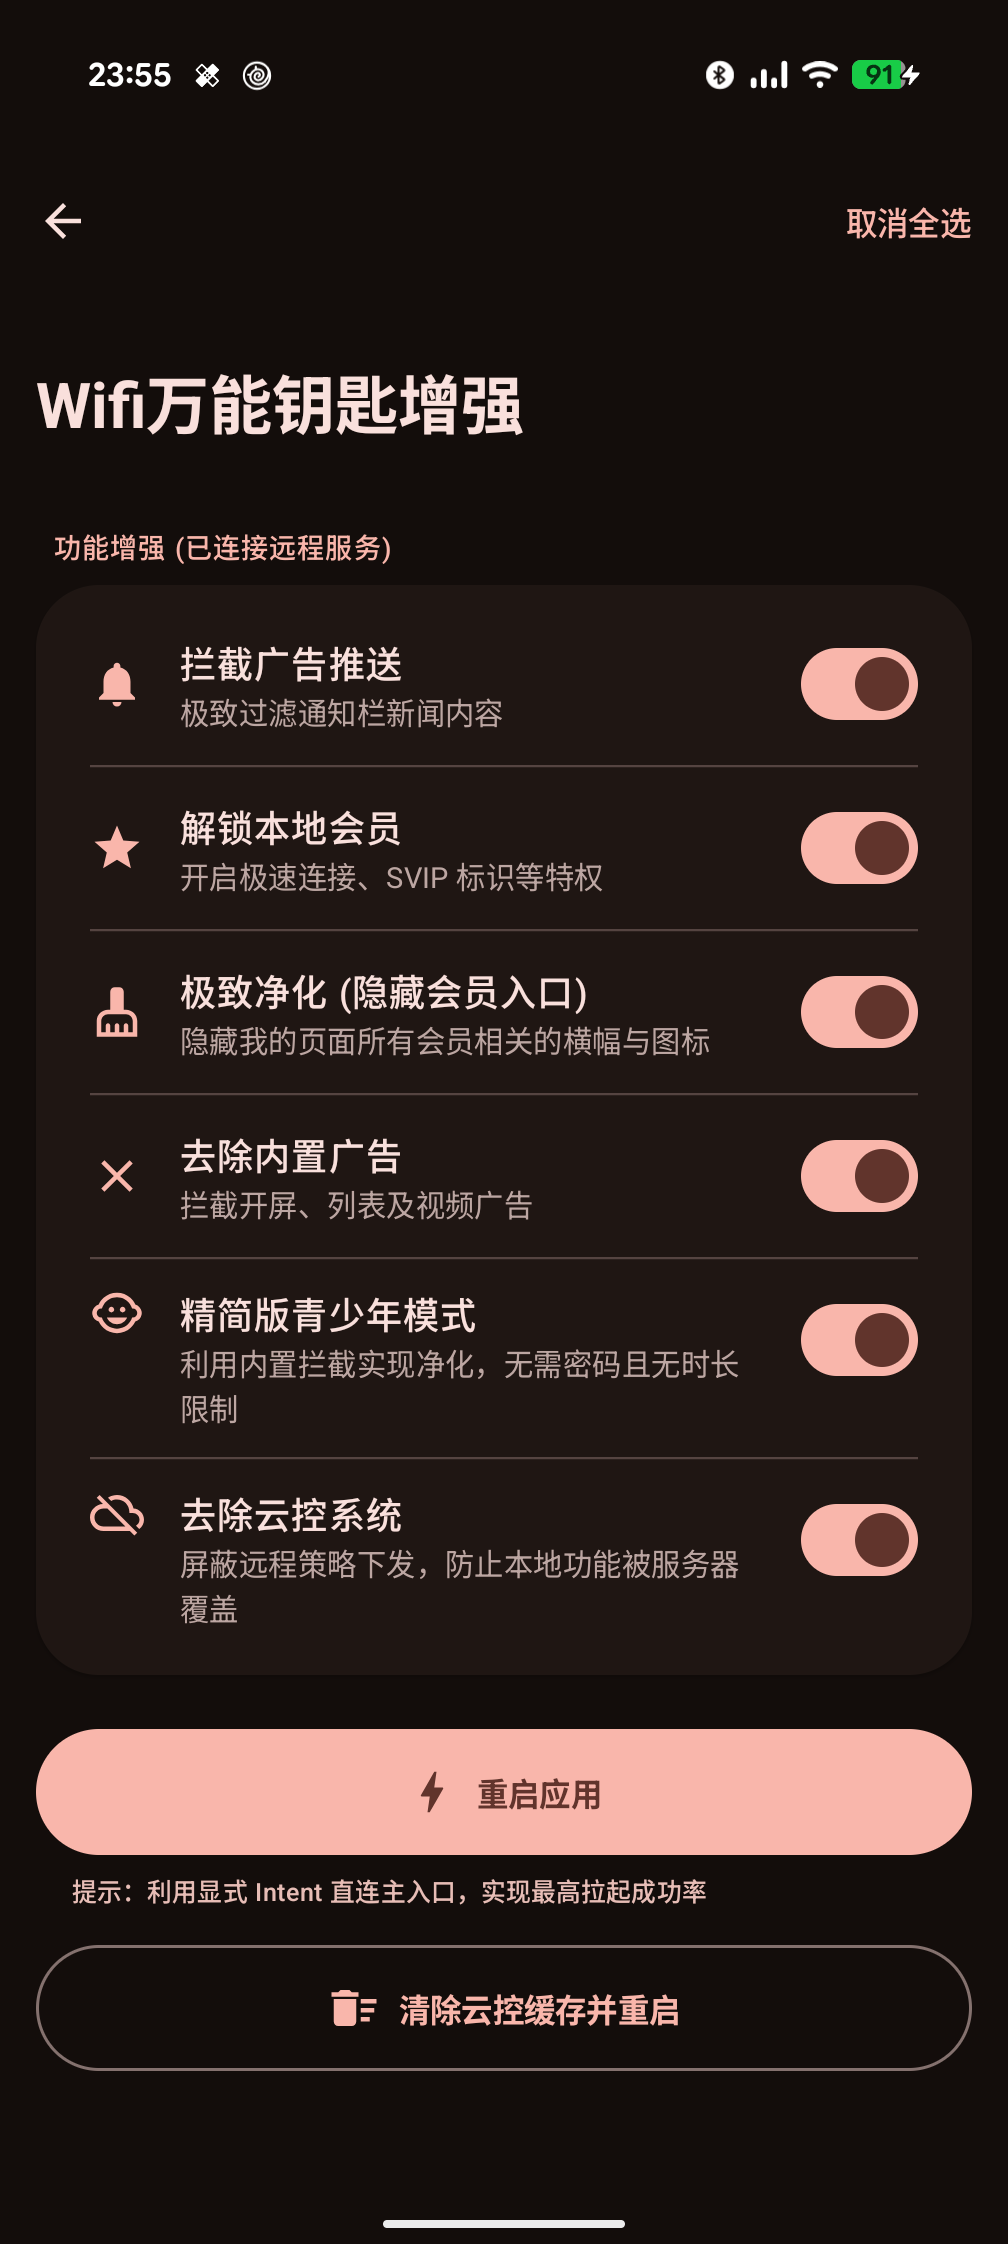
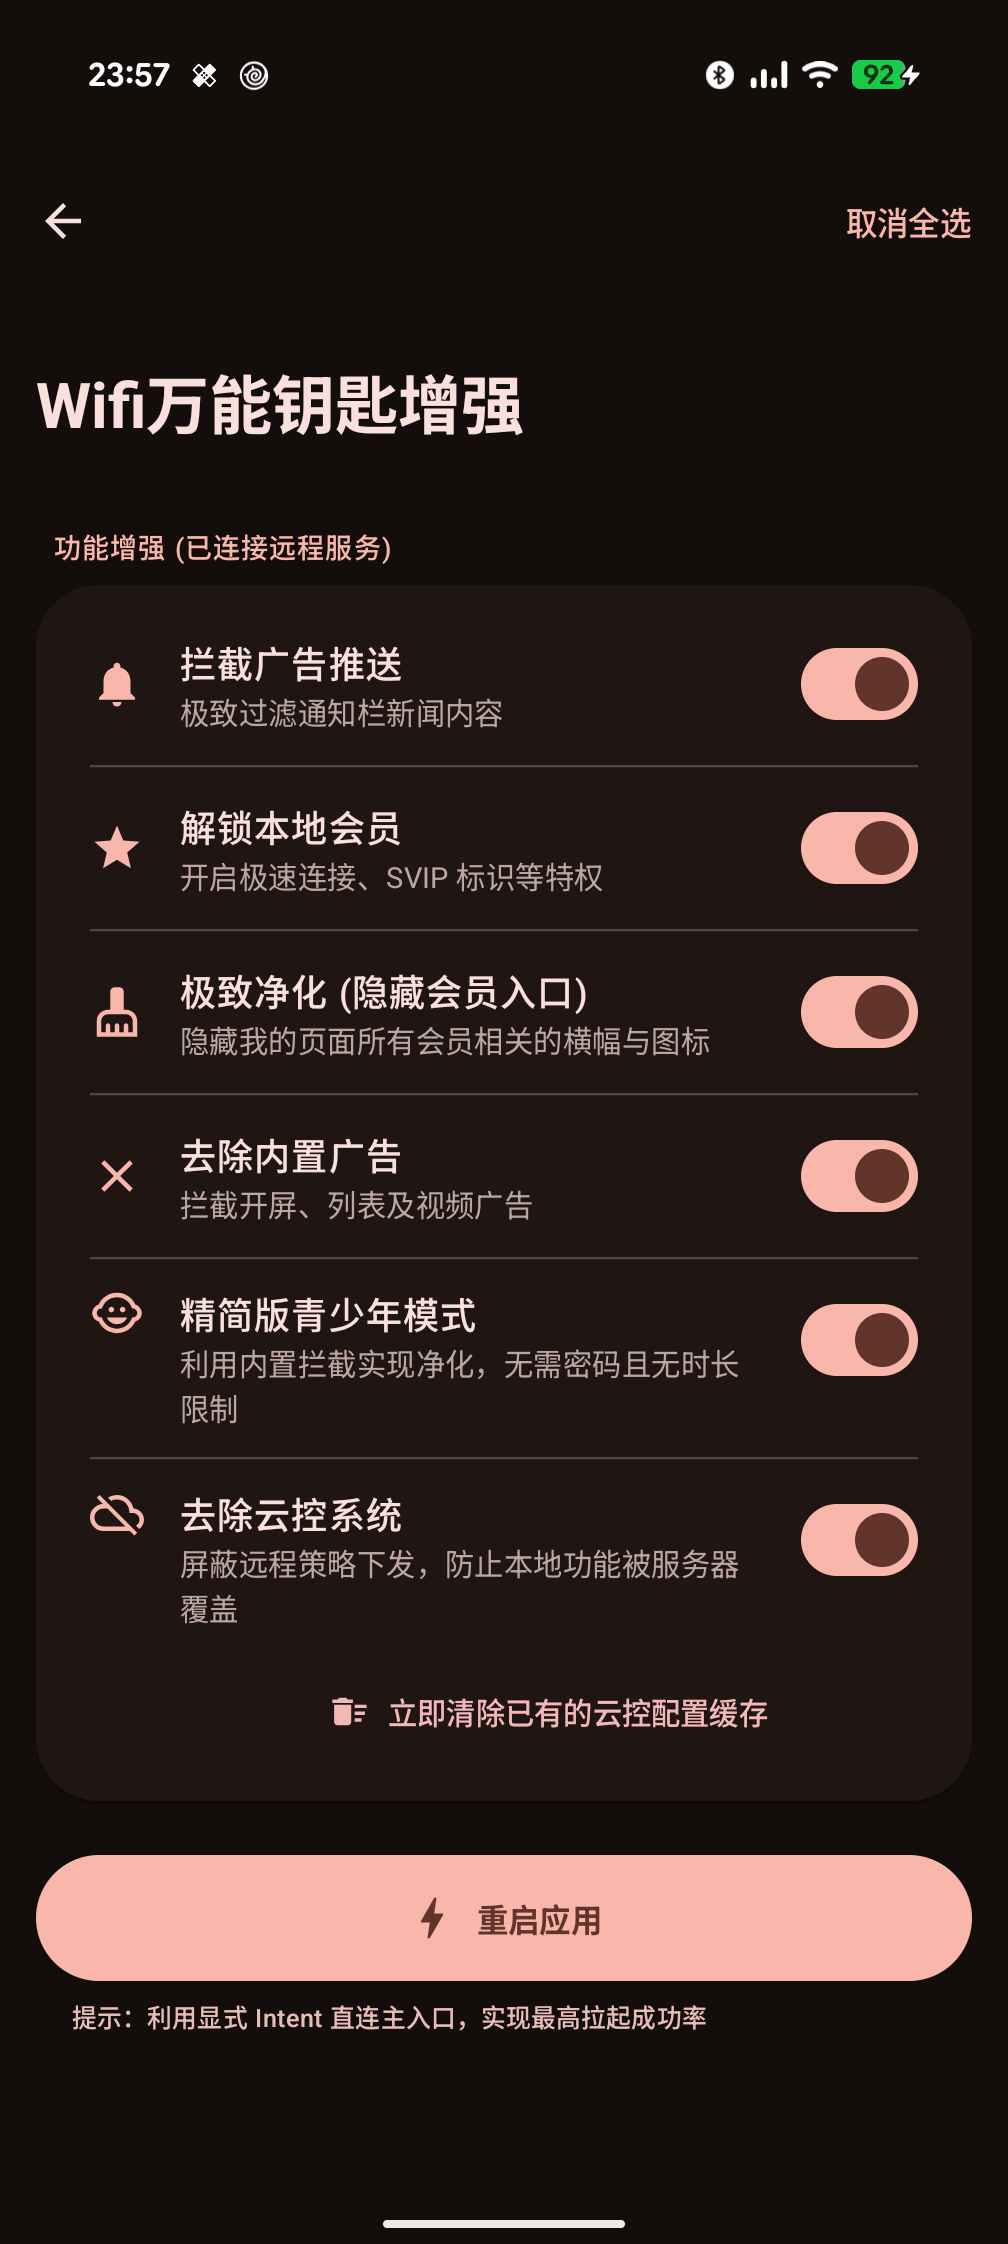
UI Refinement: nested 'Clear Cloud Config' button under its toggle and removed auto-restart behavior

diff --git a/app/src/main/java/com/ty/wifikeyxposed/SettingsActivity.kt b/app/src/main/java/com/ty/wifikeyxposed/SettingsActivity.kt
@@ -221,6 +221,26 @@ fun SettingsScreen(prefs: SharedPreferences, onBack: () -> Unit) {
                             prefs.edit().putBoolean("remove_cloud_control", it).apply()
                         }
                     )
+                    
+                    if (removeCloudControl) {
+                        Box(modifier = Modifier.padding(start = 56.dp, bottom = 8.dp, end = 16.dp)) {
+                            TextButton(
+                                onClick = {
+                                    val packageName = "com.snda.wifilocating"
+                                    val clearAction = "com.ty.wifikeyxposed.ACTION_CLEAR_CLOUD"
+                                    val intent = Intent(clearAction).apply { setPackage(packageName) }
+                                    context.sendBroadcast(intent)
+                                    Toast.makeText(context, "云控配置已清除", Toast.LENGTH_SHORT).show()
+                                },
+                                modifier = Modifier.fillMaxWidth(),
+                                colors = ButtonDefaults.textButtonColors(contentColor = MaterialTheme.colorScheme.error)
+                            ) {
+                                Icon(Icons.Default.DeleteSweep, contentDescription = null, modifier = Modifier.size(18.dp))
+                                Spacer(modifier = Modifier.width(8.dp))
+                                Text("立即清除已有的云控配置缓存", fontSize = 13.sp)
+                            }
+                        }
+                    }
                 }
             }
 
@@ -270,28 +290,6 @@ fun SettingsScreen(prefs: SharedPreferences, onBack: () -> Unit) {
                 color = MaterialTheme.colorScheme.secondary,
                 modifier = Modifier.padding(top = 8.dp, start = 16.dp)
             )
-
-            Spacer(modifier = Modifier.height(16.dp))
-
-            OutlinedButton(
-                onClick = {
-                    val packageName = "com.snda.wifilocating"
-                    val clearAction = "com.ty.wifikeyxposed.ACTION_CLEAR_CLOUD"
-                    
-                    val intent = Intent(clearAction).apply {
-                        setPackage(packageName)
-                    }
-                    context.sendBroadcast(intent)
-                    Toast.makeText(context, "正在清理云控缓存并重启...", Toast.LENGTH_SHORT).show()
-                },
-                modifier = Modifier.fillMaxWidth(),
-                shape = MaterialTheme.shapes.extraLarge,
-                contentPadding = PaddingValues(16.dp)
-            ) {
-                Icon(Icons.Default.DeleteSweep, contentDescription = null)
-                Spacer(modifier = Modifier.width(8.dp))
-                Text("清除云控缓存并重启", fontWeight = FontWeight.Bold)
-            }
         }
     }
 }

diff --git a/app/src/main/java/com/ty/wifikeyxposed/MainHook.java b/app/src/main/java/com/ty/wifikeyxposed/MainHook.java
@@ -162,9 +162,8 @@ public class MainHook extends XposedModule {
                         if (ACTION_RESTART.equals(action)) {
                             doSuicide();
                         } else if (ACTION_CLEAR_CLOUD.equals(action)) {
-                            log(4, TAG, "Clearing cloud config files...");
+                            log(4, TAG, "Clearing cloud config files (no auto-restart)...");
                             clearCloudFiles(context);
-                            doSuicide();
                         }
                     }
                 };
